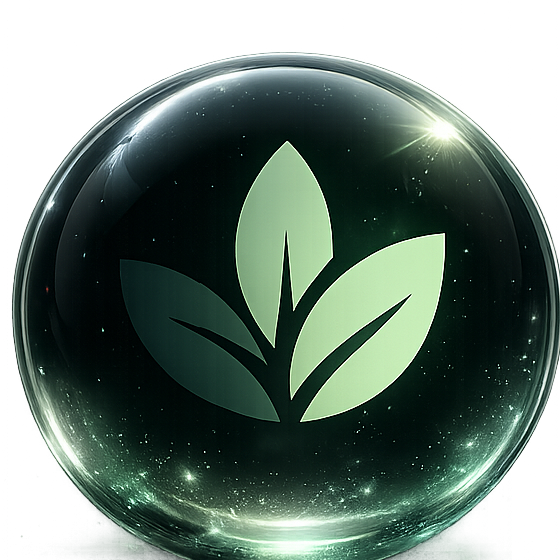
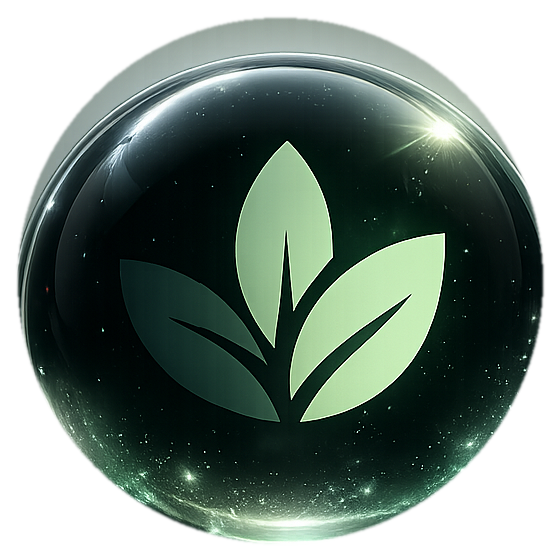
Clean home orb edge shadow

Changed region(s): [[0.0, 0.0304, 1.0, 1.0], [0.9107, 0.2732, 0.9411, 0.3036]]

diff --git a/style.css b/style.css
@@ -334,11 +334,10 @@ button {
   border: 0;
   border-radius: 50%;
   overflow: hidden;
-  background: url("images/home-orb.png") center / cover no-repeat;
+  background: url("images/home-orb.png") center / contain no-repeat;
   box-shadow:
-    0 0 18px rgba(235, 255, 239, 0.58),
-    0 0 44px rgba(141, 255, 170, 0.26),
-    0 16px 30px rgba(0, 0, 0, 0.52);
+    0 0 14px rgba(235, 255, 239, 0.34),
+    0 0 28px rgba(141, 255, 170, 0.18);
   transform: translateX(-50%);
   transition: transform 160ms ease, opacity 160ms ease, box-shadow 160ms ease, filter 160ms ease;
 }
@@ -368,9 +367,8 @@ button {
   transform: translateX(-50%) scale(1.05);
   filter: brightness(1.1) saturate(1.12);
   box-shadow:
-    0 0 28px rgba(235, 255, 239, 0.82),
-    0 0 68px rgba(141, 255, 170, 0.4),
-    0 18px 30px rgba(0, 0, 0, 0.52);
+    0 0 24px rgba(235, 255, 239, 0.64),
+    0 0 54px rgba(141, 255, 170, 0.3);
   outline: none;
 }
 
@@ -379,8 +377,7 @@ button {
   filter: brightness(1.22) saturate(1.16);
   box-shadow:
     0 0 42px rgba(242, 255, 244, 0.95),
-    0 0 90px rgba(142, 255, 172, 0.48),
-    0 10px 24px rgba(0, 0, 0, 0.52);
+    0 0 90px rgba(142, 255, 172, 0.48);
 }
 
 .bottom-home:active::after {
@@ -395,16 +392,14 @@ button {
   0%,
   100% {
     box-shadow:
-      0 0 18px rgba(235, 255, 239, 0.58),
-      0 0 46px rgba(141, 255, 170, 0.22),
-      0 16px 30px rgba(0, 0, 0, 0.52);
+      0 0 14px rgba(235, 255, 239, 0.34),
+      0 0 28px rgba(141, 255, 170, 0.18);
   }
 
   50% {
     box-shadow:
-      0 0 28px rgba(235, 255, 239, 0.78),
-      0 0 72px rgba(141, 255, 170, 0.32),
-      0 16px 30px rgba(0, 0, 0, 0.52);
+      0 0 24px rgba(235, 255, 239, 0.58),
+      0 0 58px rgba(141, 255, 170, 0.26);
   }
 }
 

diff --git a/index.html b/index.html
@@ -4,7 +4,7 @@
   <meta charset="utf-8">
   <meta name="viewport" content="width=device-width, initial-scale=1">
   <title>Neuro-Link HUD</title>
-  <link rel="stylesheet" href="style.css?v=22">
+  <link rel="stylesheet" href="style.css?v=23">
   <link rel="stylesheet" href="profile.css?v=9">
   <style>
     body { font-family: Arial, Helvetica, sans-serif; }